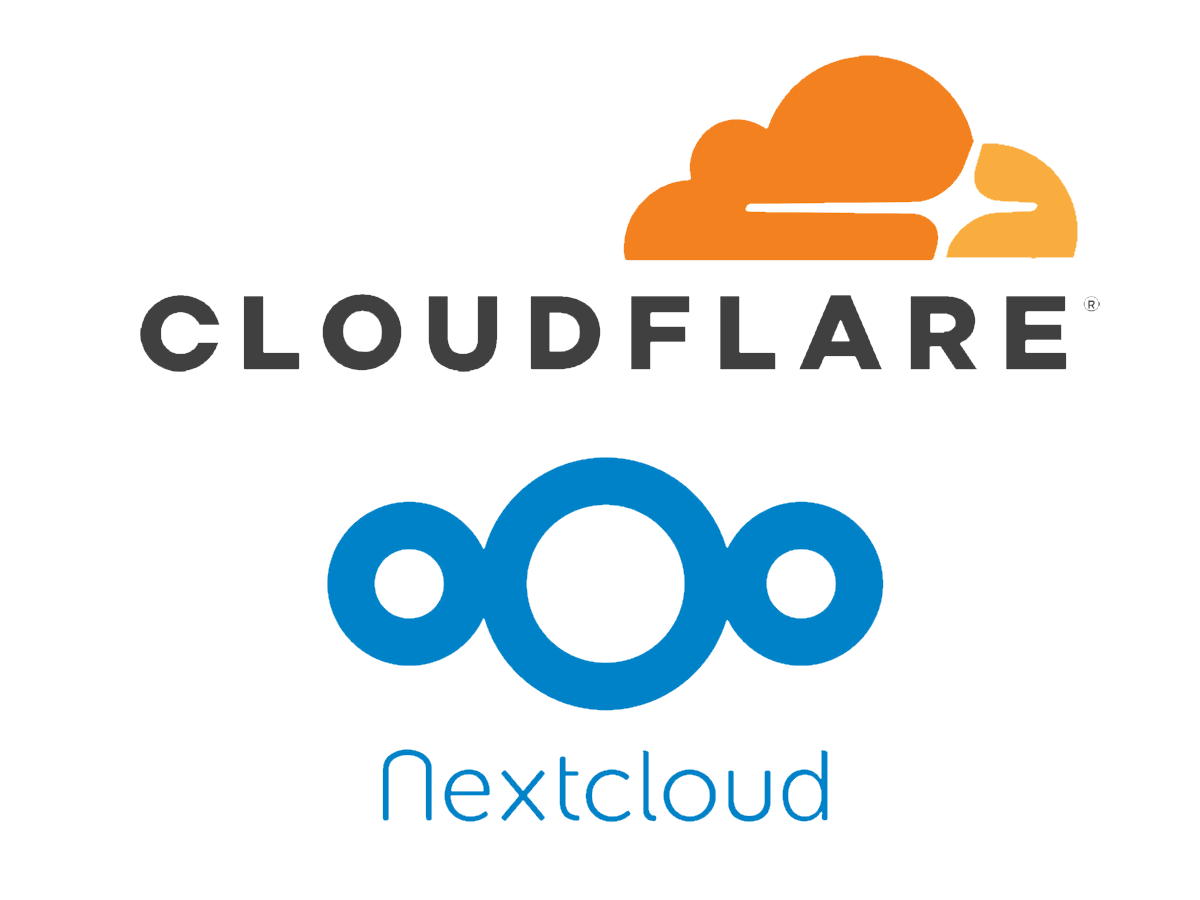
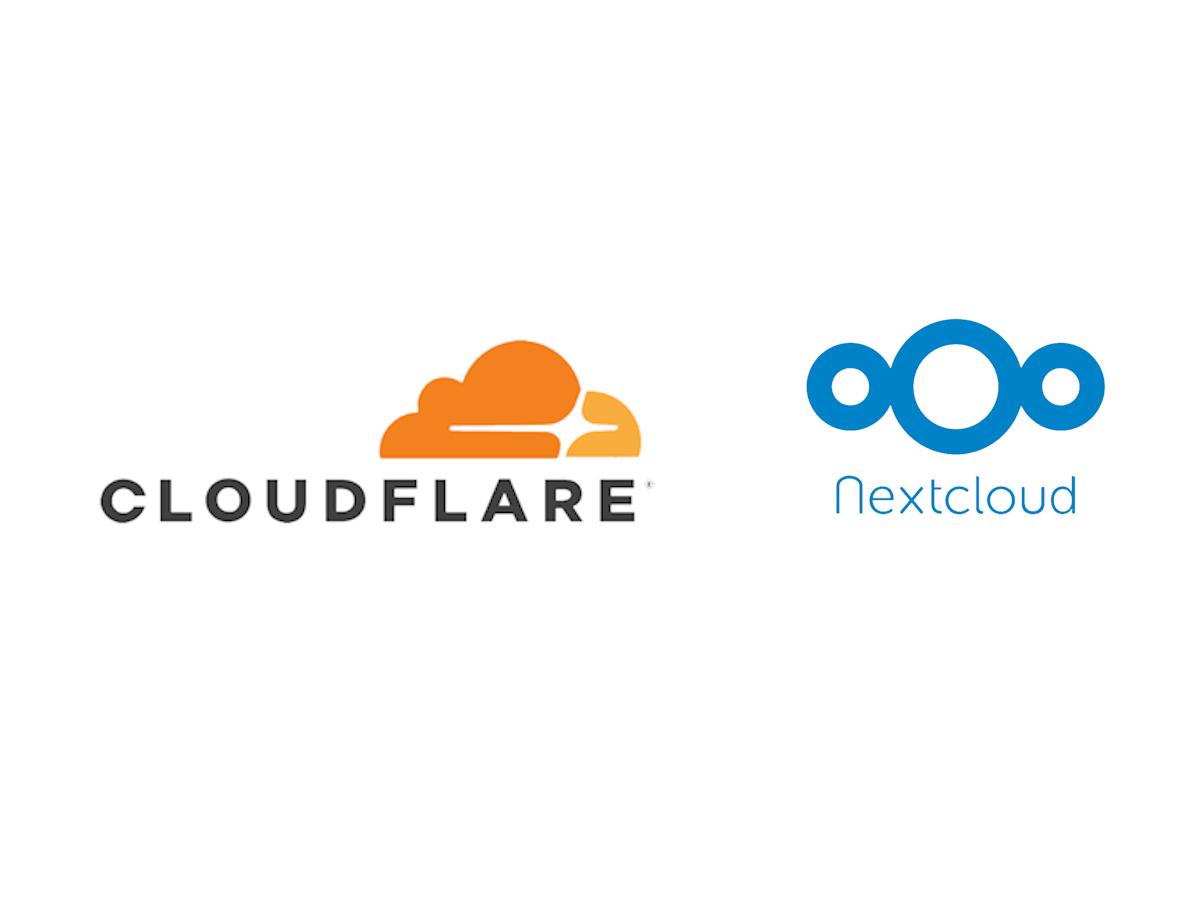
Fix styling

Changed region(s): [[0.0617, 0.0622, 0.925, 0.8089], [0.3083, 0.84, 0.7092, 0.9333]]

diff --git a/blog/articles/running-nextcloud-on-raspberry-pi-4b/index.html b/blog/articles/running-nextcloud-on-raspberry-pi-4b/index.html
@@ -176,7 +176,7 @@
 <h2 id="setting-up-nextcloud-account">Setting up NextCloud account</h2>
 <p>Now that you have a running NextCloud instance, we can start by creating a NextCloud account. You can access your NextCloud instance by going to <code>http://your-raspberry-pi-ip:8080</code> in your browser. You should see the NextCloud setup page.</p>
 <div class="md-container">
-    <img class="w-100 scale-on-tap" src="/resources/images/nextcloud-create-account.png" />
+    <img class="w-mobile-100 scale-on-tap" src="/resources/images/nextcloud-create-account.png" />
 </div>
 <p>Here you will need to create an Admin account for NextCloud. You can set the username and password to whatever you want. Then select storage &amp; database, you will need to enter the PostgreSQL database details here. The user should be the default <code>postgres</code> with the password that you chose. The default database name is also <code>postgres</code> and the database host should be the name of the PostgreSQL container you created earlier. In our case it is <code>eko-postgres-db</code>, followed by the port number 5432.</p>
 <p>Make sure your postgres container is always running before you start the NextCloud container!</p>
@@ -187,26 +187,26 @@
 <p>First thing you will have to do is create a new tunnel and run the connector on your Raspberry Pi. Here I will be using a tunnel in a Docker container. You can follow the steps below to create a new tunnel for your NextCloud instance:</p>
 <p>First go to Cloudflare and enter the zero trust tab.</p>
 <div class="md-container">
-    <img class="w-100 scale-on-tap" src="/resources/images/zero-trust-cloudflare.png" />
+    <img class="w-mobile-100 scale-on-tap" src="/resources/images/zero-trust-cloudflare.png" />
 </div>
 <p>Then press the tunnel tab and create a new tunnel.</p>
 <div class="md-container">
-    <img class="w-100 scale-on-tap" src="/resources/images/create-tunnel.png" />
+    <img class="w-mobile-100 scale-on-tap" src="/resources/images/create-tunnel.png" />
 </div>
 <p>Choose the &quot;Cloudflared&quot; tunnel connector and press next, give your tunnel a name and press next again.</p>
 <p>Then on the configure page, you will need to press &quot;Docker&quot; and copy the docker command to run the connector.</p>
 <div class="md-container">
-    <img class="w-100 scale-on-tap" src="/resources/images/add-connector.png" />
+    <img class="w-mobile-100 scale-on-tap" src="/resources/images/add-connector.png" />
 </div>
 <p>Next you will have to run this command on your Raspberry Pi. This will start the Cloudflare tunnel connector in a Docker container.</p>
 <p>After you have the connector running, you have to go back to the Cloudflare tunnel dashboard and choose to configure your tunnel.<br />
 Then you will have to go to the public hostnames and add a new hostname for your NextCloud instance.</p>
 <div class="md-container">
-    <img class="w-100 scale-on-tap" src="/resources/images/add-public-hostname.png" />
+    <img class="w-mobile-100 scale-on-tap" src="/resources/images/add-public-hostname.png" />
 </div>
 <p>Choose a new hostname and pick your domain name. Then you will have to put the IP address of your Raspberry Pi and the port of your NextCloud instance.</p>
 <div class="md-container">
-    <img class="w-100 scale-on-tap" src="/resources/images/tunnel-routing-cloudflare.png" />
+    <img class="w-mobile-100 scale-on-tap" src="/resources/images/tunnel-routing-cloudflare.png" />
 </div>
 <p>After you have done this, you can press save and your NextCloud instance should be accessible from the internet using the hostname you chose.</p>
 <p>But wait there is still an issue, you can't access your NextCloud instance using the new hostname because it is not trusted by NextCloud. To fix this we will have to make some changes to the NextCloud config.</p>

diff --git a/blog/styles/dist/style.css b/blog/styles/dist/style.css
@@ -332,5 +332,10 @@ input[type=checkbox] {
     width: 66% !important;
   }
 }
+@media only screen and (max-width: 1400px) {
+  .md-container img.w-mobile-100 {
+    width: 100% !important;
+  }
+}
 
 /*# sourceMappingURL=style.css.map */

diff --git a/blog/styles/src/style.scss b/blog/styles/src/style.scss
@@ -394,3 +394,9 @@ input[type="checkbox"] {
 		width: 66% !important;
 	}
 }
+
+@media only screen and (max-width: 1400px) {
+	.md-container img.w-mobile-100 {
+		width: 100% !important;
+	}
+}

diff --git a/blog/markdown/running-nextcloud-on-raspberry-pi-4b.md b/blog/markdown/running-nextcloud-on-raspberry-pi-4b.md
@@ -93,7 +93,7 @@ After that, we will map another volume using the `-v` flag. This time we will ma
 Now that you have a running NextCloud instance, we can start by creating a NextCloud account. You can access your NextCloud instance by going to `http://your-raspberry-pi-ip:8080` in your browser. You should see the NextCloud setup page.
 
 <div class="md-container">
-    <img class="w-100 scale-on-tap" src="/resources/images/nextcloud-create-account.png" />
+    <img class="w-mobile-100 scale-on-tap" src="/resources/images/nextcloud-create-account.png" />
 </div>
 
 Here you will need to create an Admin account for NextCloud. You can set the username and password to whatever you want. Then select storage & database, you will need to enter the PostgreSQL database details here. The user should be the default `postgres` with the password that you chose. The default database name is also `postgres` and the database host should be the name of the PostgreSQL container you created earlier. In our case it is `eko-postgres-db`, followed by the port number 5432.
@@ -113,13 +113,13 @@ First thing you will have to do is create a new tunnel and run the connector on 
 First go to Cloudflare and enter the zero trust tab.
 
 <div class="md-container">
-    <img class="w-100 scale-on-tap" src="/resources/images/zero-trust-cloudflare.png" />
+    <img class="w-mobile-100 scale-on-tap" src="/resources/images/zero-trust-cloudflare.png" />
 </div>
 
 Then press the tunnel tab and create a new tunnel.
 
 <div class="md-container">
-    <img class="w-100 scale-on-tap" src="/resources/images/create-tunnel.png" />
+    <img class="w-mobile-100 scale-on-tap" src="/resources/images/create-tunnel.png" />
 </div>
 
 Choose the "Cloudflared" tunnel connector and press next, give your tunnel a name and press next again.
@@ -127,7 +127,7 @@ Choose the "Cloudflared" tunnel connector and press next, give your tunnel a nam
 Then on the configure page, you will need to press "Docker" and copy the docker command to run the connector.
 
 <div class="md-container">
-    <img class="w-100 scale-on-tap" src="/resources/images/add-connector.png" />
+    <img class="w-mobile-100 scale-on-tap" src="/resources/images/add-connector.png" />
 </div>
 
 Next you will have to run this command on your Raspberry Pi. This will start the Cloudflare tunnel connector in a Docker container.
@@ -136,13 +136,13 @@ After you have the connector running, you have to go back to the Cloudflare tunn
 Then you will have to go to the public hostnames and add a new hostname for your NextCloud instance.
 
 <div class="md-container">
-    <img class="w-100 scale-on-tap" src="/resources/images/add-public-hostname.png" />
+    <img class="w-mobile-100 scale-on-tap" src="/resources/images/add-public-hostname.png" />
 </div>
 
 Choose a new hostname and pick your domain name. Then you will have to put the IP address of your Raspberry Pi and the port of your NextCloud instance.
 
 <div class="md-container">
-    <img class="w-100 scale-on-tap" src="/resources/images/tunnel-routing-cloudflare.png" />
+    <img class="w-mobile-100 scale-on-tap" src="/resources/images/tunnel-routing-cloudflare.png" />
 </div>
 
 After you have done this, you can press save and your NextCloud instance should be accessible from the internet using the hostname you chose.
